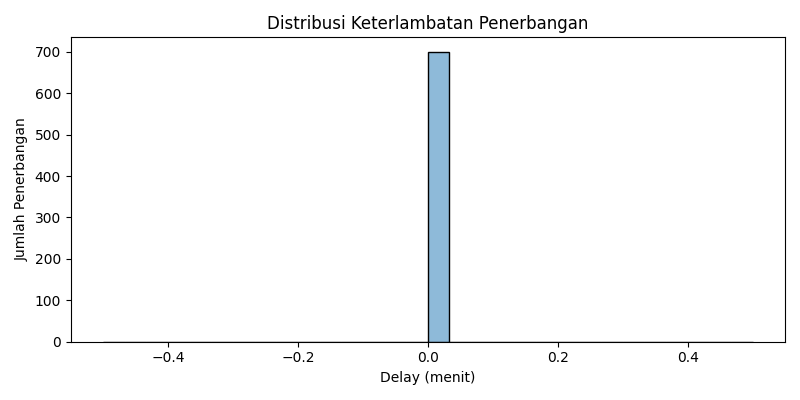
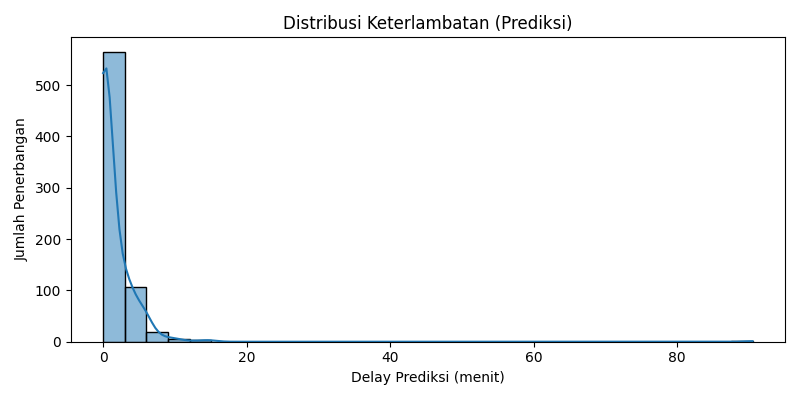
update route analisis

diff --git a/static/style.css b/static/style.css
@@ -211,3 +211,23 @@ small{color:var(--muted)}
   font-size: clamp(22px, 3.2vw, 32px);
   font-weight: 800;
 }
+
+/* 1) Pastikan item grid rata tengah */
+.grid { justify-items: center; }
+
+/* 2) Card di dalam grid selalu memenuhi lebar kolom */
+.grid > .card { width: 100%; }
+
+/* 3) Gambar chart di-center dan responsif penuh */
+.card .chart {
+  display: block;
+  max-width: 100%;
+  height: auto;
+  margin: 0 auto;       /* center di dalam card */
+}
+
+/* 4) Sedikit rapatkan padding di layar kecil supaya tidak terasa "bergeser" */
+@media (max-width: 640px){
+  .container { width: 94%; }
+  .grid { gap: 14px; }
+}

diff --git a/templates/analisis.html b/templates/analisis.html
@@ -27,7 +27,17 @@
 
     <figure class="card grid-span-2">
       <img class="chart" src="{{ url_for('static', filename='charts/cuaca.png') }}" alt="Cuaca Tujuan">
-      <figcaption>Cuaca Tujuan</figcaption>
+      <figcaption>
+        Cuaca Tujuan<br>
+        <small>
+          0 = badai petir, 
+          1 = berawan, 
+          2 = berkabut, 
+          3 = cerah, 
+          4 = gerimis, 
+          5 = hujan ringan
+        </small>
+      </figcaption>
     </figure>
   </div>
 {% endblock %}

diff --git a/app.py b/app.py
@@ -245,103 +245,132 @@ def index():
 
 @app.route("/analisis")
 def analisis():
-    # direktori output chart
     chart_dir = "static/charts"
     os.makedirs(chart_dir, exist_ok=True)
 
-    # --- 1) Distribusi Delay (kalau ada kolomnya)
-    if "Delay" in df_raw.columns and df_raw["Delay"].notna().any():
-        plt.figure(figsize=(8, 4))
-        sns.histplot(df_raw["Delay"], bins=30, kde=True)
-        plt.title("Distribusi Keterlambatan Penerbangan")
-        plt.xlabel("Delay (menit)")
-        plt.ylabel("Jumlah Penerbangan")
-        plt.tight_layout()
-        plt.savefig(f"{chart_dir}/distribusi.png")
-        plt.close()
+    # ---------- helpers ----------
+    def _parse_dt(s):
+        for fmt in ("%H:%M", "%H:%M:%S", "%Y-%m-%d %H:%M", "%Y-%m-%d %H:%M:%S"):
+            try:
+                return pd.to_datetime(s, format=fmt)
+            except Exception:
+                pass
+        return pd.to_datetime(s, errors="coerce")
 
-    # --- 2) Jumlah penerbangan per Maskapai
-    if "Maskapai" in df_raw.columns:
-        plt.figure(figsize=(8, 4))
-        (df_raw["Maskapai"]
-            .value_counts()
-            .sort_values(ascending=False)
-            .plot(kind="bar"))
-        plt.title("Jumlah Penerbangan per Maskapai")
-        plt.xlabel("Maskapai")
-        plt.ylabel("Jumlah Penerbangan")
-        plt.xticks(rotation=45, ha="right")
-        plt.tight_layout()
-        plt.savefig(f"{chart_dir}/jumlah_maskapai.png")
-        plt.close()
+    def decode_with_le(col: str, ser: pd.Series) -> pd.Series:
+        """Jika kolom hasil LabelEncoder (angka), kembalikan ke label string."""
+        le = label_encoders.get(col)
+        if le is None:
+            return ser.astype(str)
+        idx = pd.to_numeric(ser, errors="coerce")
+        if idx.notna().mean() >= 0.8:  # mayoritas numerik -> encoded
+            out = ser.astype(object).copy()
+            ok = idx.notna()
+            clipped = np.clip(idx[ok].astype(int).to_numpy(), 0, len(le.classes_) - 1)
+            out.loc[ok] = le.inverse_transform(clipped)
+            return out.astype(str)
+        return ser.astype(str)
 
-    # --- 3) Rata-rata Delay per Maskapai
-    if {"Maskapai","Delay"}.issubset(df_raw.columns):
-        plt.figure(figsize=(8, 4))
-        (df_raw.groupby("Maskapai")["Delay"]
-              .mean()
-              .sort_values(ascending=False)
-              .plot(kind="bar"))
-        plt.title("Rata-rata Delay per Maskapai")
-        plt.xlabel("Maskapai")
-        plt.ylabel("Delay Rata-rata (menit)")
-        plt.xticks(rotation=45, ha="right")
-        plt.tight_layout()
-        plt.savefig(f"{chart_dir}/delay_maskapai.png")
-        plt.close()
+    # ---------- siapkan data ----------
+    dfp = df_raw.copy()
 
-    # --- 4) Rata-rata Delay per Bandara Asal
-    if {"Bandara_Asal","Delay"}.issubset(df_raw.columns):
-        plt.figure(figsize=(8, 4))
-        (df_raw.groupby("Bandara_Asal")["Delay"]
-              .mean()
-              .sort_values(ascending=False)
-              .plot(kind="bar"))
-        plt.title("Rata-rata Delay per Bandara Asal")
-        plt.xlabel("Bandara Asal")
-        plt.ylabel("Delay Rata-rata (menit)")
-        plt.xticks(rotation=45, ha="right")
-        plt.tight_layout()
-        plt.savefig(f"{chart_dir}/delay_asal.png")
-        plt.close()
+    # 1) Prediksi durasi & Delay_prediksi per baris
+    X = encode_frame_for_model(dfp)
+    try:
+        durasi_pred = model.predict(X)
+    except Exception:
+        cols = list(model.feature_names_in_) if hasattr(model, "feature_names_in_") else EXPECTED_FEATURES
+        durasi_pred = model.predict(X[cols].to_numpy())
 
-    # --- 5) Rata-rata Delay per Bandara Tujuan
-    if {"Bandara_Tujuan","Delay"}.issubset(df_raw.columns):
-        plt.figure(figsize=(8, 4))
-        (df_raw.groupby("Bandara_Tujuan")["Delay"]
-              .mean()
-              .sort_values(ascending=False)
-              .plot(kind="bar"))
-        plt.title("Rata-rata Delay per Bandara Tujuan")
-        plt.xlabel("Bandara Tujuan")
-        plt.ylabel("Delay Rata-rata (menit)")
-        plt.xticks(rotation=45, ha="right")
-        plt.tight_layout()
-        plt.savefig(f"{chart_dir}/delay_tujuan.png")
-        plt.close()
+    if {"Jadwal_Keberangkatan", "Jadwal_Kedatangan"}.issubset(dfp.columns):
+        dep = dfp["Jadwal_Keberangkatan"].map(_parse_dt)
+        arr = dfp["Jadwal_Kedatangan"].map(_parse_dt)
+        plan = (arr - dep).dt.total_seconds() / 60
+        plan = plan.where(plan >= 0, plan + 24*60)
+    else:
+        plan = pd.to_numeric(dfp.get("Durasi_Penerbangan", 0), errors="coerce")
+    plan = plan.fillna(0).to_numpy()
 
-    # --- 6) Pengaruh Cuaca terhadap Delay (cuaca sesuai datasetmu)
-    # label cuaca: badai petir, berawan, berkabut, cerah, gerimis, hujan ringan
-    if {"Cuaca_tujuan","Delay"}.issubset(df_raw.columns):
-        # normalisasi teks agar konsisten
-        cuaca_series = df_raw["Cuaca_tujuan"].astype(str).str.strip().str.lower()
-        df_tmp = df_raw.copy()
-        df_tmp["Cuaca_norm"] = cuaca_series
-        plt.figure(figsize=(8, 4))
-        (df_tmp.groupby("Cuaca_norm")["Delay"]
-              .mean()
-              .reindex(["cerah", "berawan", "gerimis", "hujan ringan", "berkabut", "badai petir"])
-              .dropna()
-              .plot(kind="bar"))
-        plt.title("Pengaruh Cuaca terhadap Delay")
-        plt.xlabel("Cuaca Tujuan")
-        plt.ylabel("Delay Rata-rata (menit)")
-        plt.xticks(rotation=0)
-        plt.tight_layout()
-        plt.savefig(f"{chart_dir}/delay_cuaca.png")
-        plt.close()
+    dfp["Delay_prediksi"] = np.maximum(0.0, durasi_pred - plan)
 
-    # render halaman analisis (pastikan ada templates/analisis.html)
+    # 2) Decode label agar sumbu X bukan angka
+    if "Maskapai" in dfp.columns:
+        dfp["Maskapai"] = decode_with_le("Maskapai", dfp["Maskapai"])
+    if "Bandara_Asal" in dfp.columns:
+        dfp["Bandara_Asal"] = decode_with_le("Bandara_Asal", dfp["Bandara_Asal"])
+    if "Bandara_Tujuan" in dfp.columns:
+        dfp["Bandara_Tujuan"] = decode_with_le("Bandara_Tujuan", dfp["Bandara_Tujuan"])
+
+    # 3) CUACA: mapping tegas -> label datasetmu
+    cuaca_order = ["badai petir", "berawan", "berkabut", "cerah", "gerimis", "hujan ringan"]
+    if "Cuaca_tujuan" in dfp.columns:
+        numeric_map = {0: "badai petir", 1: "berawan", 2: "berkabut", 3: "cerah", 4: "gerimis", 5: "hujan ringan"}
+        src = dfp["Cuaca_tujuan"]
+        idx = pd.to_numeric(src, errors="coerce")
+        if idx.notna().mean() >= 0.8:
+            dfp["Cuaca_label"] = idx.map(numeric_map).astype(str)
+        else:
+            dfp["Cuaca_label"] = src.astype(str)
+        dfp["Cuaca_label"] = (
+            dfp["Cuaca_label"].str.strip().str.lower()
+        )
+        # jadikan kategori berurutan supaya urutan sumbu X konsisten
+        dfp["Cuaca_label"] = pd.Categorical(dfp["Cuaca_label"], categories=cuaca_order, ordered=True)
+
+    # ----------------- PLOT -----------------
+
+    # Distribusi Delay (prediksi)
+    if dfp["Delay_prediksi"].notna().any():
+        plt.figure(figsize=(8, 4))
+        sns.histplot(dfp["Delay_prediksi"], bins=30, kde=True)
+        plt.title("Distribusi Keterlambatan (Prediksi)")
+        plt.xlabel("Delay Prediksi (menit)"); plt.ylabel("Jumlah Penerbangan")
+        plt.tight_layout(); plt.savefig(f"{chart_dir}/distribusi.png"); plt.close()
+
+    # Rata-rata Delay per Maskapai (prediksi)
+    if {"Maskapai", "Delay_prediksi"}.issubset(dfp.columns):
+        plt.figure(figsize=(8, 4))
+        (dfp.groupby("Maskapai", dropna=False)["Delay_prediksi"]
+           .mean().sort_values(ascending=False)
+           .plot(kind="bar", color="#f59e0b"))
+        plt.title("Rata-rata Delay per Maskapai (Prediksi)")
+        plt.xlabel("Maskapai"); plt.ylabel("Delay Rata-rata (menit)")
+        plt.xticks(rotation=45, ha="right"); plt.tight_layout()
+        plt.savefig(f"{chart_dir}/maskapai.png"); plt.close()
+
+    # Rata-rata Delay per Bandara Asal (prediksi)
+    if {"Bandara_Asal", "Delay_prediksi"}.issubset(dfp.columns):
+        plt.figure(figsize=(8, 4))
+        (dfp.groupby("Bandara_Asal", dropna=False)["Delay_prediksi"]
+           .mean().sort_values(ascending=False)
+           .plot(kind="bar", color="#16a34a"))
+        plt.title("Rata-rata Delay per Bandara Asal (Prediksi)")
+        plt.xlabel("Bandara Asal"); plt.ylabel("Delay Rata-rata (menit)")
+        plt.xticks(rotation=45, ha="right"); plt.tight_layout()
+        plt.savefig(f"{chart_dir}/asal.png"); plt.close()
+
+    # Rata-rata Delay per Bandara Tujuan (prediksi)
+    if {"Bandara_Tujuan", "Delay_prediksi"}.issubset(dfp.columns):
+        plt.figure(figsize=(8, 4))
+        (dfp.groupby("Bandara_Tujuan", dropna=False)["Delay_prediksi"]
+           .mean().sort_values(ascending=False)
+           .plot(kind="bar", color="#7e22ce"))
+        plt.title("Rata-rata Delay per Bandara Tujuan (Prediksi)")
+        plt.xlabel("Bandara Tujuan"); plt.ylabel("Delay Rata-rata (menit)")
+        plt.xticks(rotation=45, ha="right"); plt.tight_layout()
+        plt.savefig(f"{chart_dir}/tujuan.png"); plt.close()
+
+    # Pengaruh Cuaca terhadap Delay (prediksi) — pakai Cuaca_label (bukan Cuaca_tujuan)
+    if {"Cuaca_label", "Delay_prediksi"}.issubset(dfp.columns):
+        plt.figure(figsize=(8, 4))
+        (dfp.groupby("Cuaca_label", observed=True)["Delay_prediksi"]
+           .mean().reindex(cuaca_order).dropna()
+           .plot(kind="bar", color="#ef4444"))
+        plt.title("Pengaruh Cuaca terhadap Delay (Prediksi)")
+        plt.xlabel("Cuaca Tujuan"); plt.ylabel("Delay Rata-rata (menit)")
+        plt.xticks(rotation=0); plt.tight_layout()
+        plt.savefig(f"{chart_dir}/cuaca.png"); plt.close()
+
     return render_template("analisis.html")
 
 @app.route("/prediksi", methods=["GET", "POST"])
